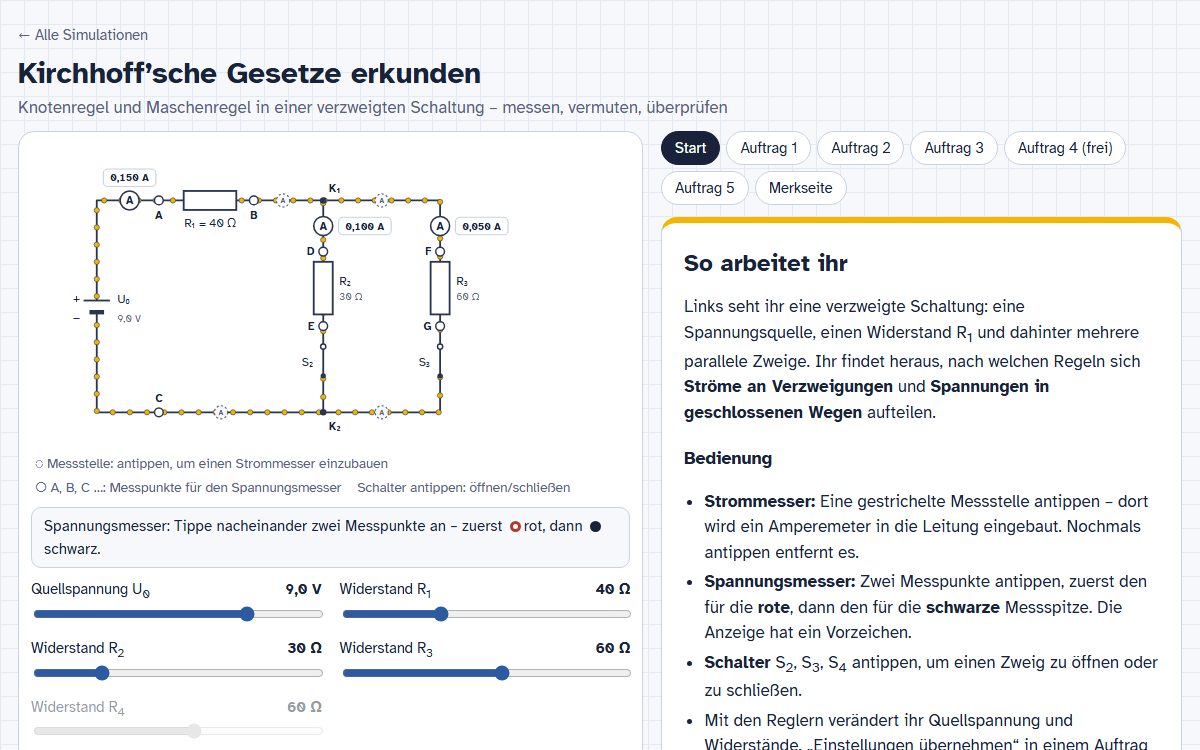
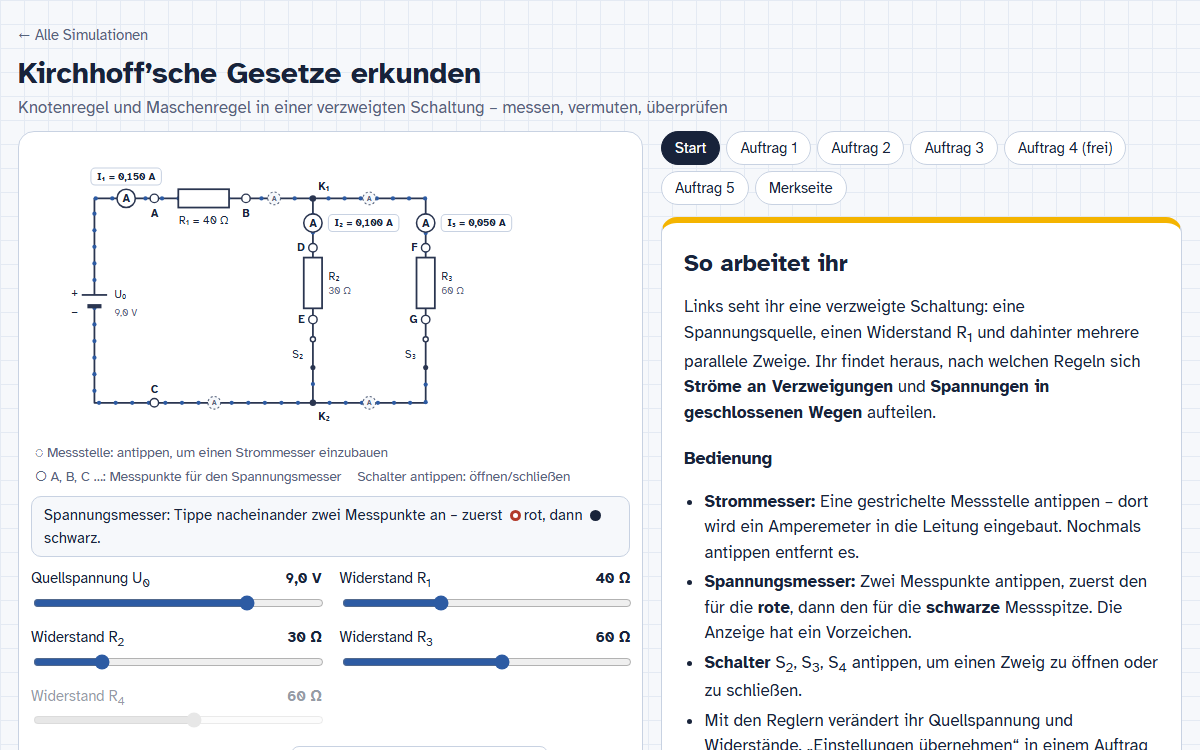
Kirchhoff: Formelsymbole an Messgeräten, Elektronenflussrichtung als Standard, Auftrag 5 ohne Textfelder

Changed region(s): [[0.0, 0.2147, 0.5242, 0.9813], [0.2158, 0.92, 0.2775, 0.9507]]

diff --git a/sims/physik/kirchhoff/index.html b/sims/physik/kirchhoff/index.html
@@ -182,7 +182,7 @@ footer{color:var(--muted);font-size:.85rem;padding:0 0 30px}
   <div class="layout">
     <div class="simcol">
       <div class="simcard">
-        <svg id="circ" viewBox="0 0 820 425" role="group" aria-label="Schaltung mit Spannungsquelle, Widerstand R1 und parallelen Zweigen. Messstellen und Messpunkte sind per Klick oder Tastatur bedienbar.">
+        <svg id="circ" viewBox="0 0 850 425" role="group" aria-label="Schaltung mit Spannungsquelle, Widerstand R1 und parallelen Zweigen. Messstellen und Messpunkte sind per Klick oder Tastatur bedienbar.">
           <g id="gMesh"></g><g id="gWires"></g><g id="gDots"></g><g id="gParts"></g><g id="gSpots"></g><g id="gVm"></g><g id="gPts"></g>
         </svg>
         <div class="legend">
@@ -200,7 +200,7 @@ footer{color:var(--muted);font-size:.85rem;padding:0 0 30px}
         </div>
         <div class="ctlrow">
           <label><input type="checkbox" id="cB4"> <span>dritter Zweig mit R<sub>4</sub></span></label>
-          <label><span>Ladungsfluss</span> <select id="cFlow"><option value="aus">ausblenden</option><option value="tech">technische Stromrichtung (+ → −)</option><option value="el">Elektronen (− → +)</option></select></label>
+          <label><span>Ladungsfluss</span> <select id="cFlow"><option value="el">Elektronenflussrichtung (− → +)</option><option value="tech">technische Stromrichtung (+ → −)</option><option value="aus">ausblenden</option></select></label>
         </div>
         <div class="ctlrow">
           <button class="btn ghost small" type="button" id="bAmmOff">Strommesser entfernen</button>
@@ -250,9 +250,9 @@ const DEF={U:9,R1:40,R2:30,R3:60,R4:60,b4:false,s2:true,s3:true,s4:true};
 let sim=Object.assign({},DEF,store.sim||{});
 let amm=new Set(store.amm||['a1','a3','a5']);
 let vm=Object.assign({red:null,black:null},store.vm||{});
-let flow=store.flow || (reduced?'aus':'tech');
+let flow=store.flow2 || (reduced?'aus':'el');
 let mesh=0;
-const saveSim=()=>{ store.sim=sim; store.amm=[...amm]; store.vm=vm; store.flow=flow; save(); };
+const saveSim=()=>{ store.sim=sim; store.amm=[...amm]; store.vm=vm; store.flow2=flow; save(); };
 
 /* ---------- Formatierung ---------- */
 const $=s=>document.querySelector(s);
@@ -294,6 +294,14 @@ function phi(id,r){
   }
 }
 const visible=o=>!o.b4||sim.b4;
+// Formelsymbole: Strom zwischen den Zweigen bewusst ohne Index (Auftrag 2 fragt danach)
+const ISYM={I1:'I₁',I2:'I₂',I3:'I₃',I4:'I₄',I34:'I'};
+// Spannung zwischen zwei Punkten: Bauteilspannung in Messrichtung als U₀…U₄, sonst U mit Punktnamen
+const USYM={AC:'₀',AB:'₁',DE:'₂',FG:'₃',HJ:'₄'};
+function uSym(a,b,svg){
+  if(USYM[a+b]) return 'U'+USYM[a+b];
+  return svg?`U<tspan dy="4" font-size="10">${a}${b}</tspan><tspan dy="-4"> </tspan>`:`U<sub>${a}${b}</sub>`;
+}
 
 /* ---------- Zeichnen ---------- */
 const pl=(pts,cls='w')=>`<polyline class="${cls}" points="${pts.map(p=>p.join(',')).join(' ')}"/>`;
@@ -341,12 +349,12 @@ function render(){
           <circle class="hit" cx="${o.x}" cy="${o.y}" r="16"/><circle class="ring" cx="${o.x}" cy="${o.y}" r="13"/>
           <circle class="spot0" cx="${o.x}" cy="${o.y}" r="9"/><text class="spot0t" x="${o.x}" y="${o.y}">A</text></g>`;
     } else {
-      const v=fA(r[o.k]);
-      const [tx0,ty0]=o.pos==='t'?[o.x,o.y-31]:o.pos==='b'?[o.x,o.y+31]:[o.x+57,o.y];
+      const v=ISYM[o.k]+' = '+fA(r[o.k]);
+      const [tx0,ty0]=o.pos==='t'?[o.x,o.y-31]:o.pos==='b'?[o.x,o.y+31]:[o.x+72,o.y];
       s+=`<g data-spot="${o.id}" tabindex="0" role="button" aria-label="Strommesser ${o.d}: ${v.replace(',',' Komma ')}. Ausbauen">
           <circle class="hit" cx="${o.x}" cy="${o.y}" r="17"/><circle class="ring" cx="${o.x}" cy="${o.y}" r="17"/>
           <circle class="met" cx="${o.x}" cy="${o.y}" r="13"/><text class="mett" x="${o.x}" y="${o.y}">A</text>
-          <rect class="tag" x="${tx0-36}" y="${ty0-12}" width="72" height="24" rx="6"/><text class="tagt" x="${tx0}" y="${ty0}">${v}</text></g>`;
+          <rect class="tag" x="${tx0-50}" y="${ty0-12}" width="100" height="24" rx="6"/><text class="tagt" x="${tx0}" y="${ty0}">${v}</text></g>`;
     }
   });
   $('#gSpots').innerHTML=s;
@@ -375,8 +383,8 @@ function render(){
     const cx=mx+nx*70, cy=my+ny*70, vx=mx+nx*35, vy=my+ny*35;
     v=`<path class="vline" d="M${a.x},${a.y} Q${cx},${cy} ${b.x},${b.y}" stroke="var(--ink)"/>
        <circle class="met" cx="${vx}" cy="${vy}" r="14"/><text class="mett" x="${vx}" y="${vy}">V</text>
-       <rect class="tag" x="${vx-40}" y="${vy+17}" width="80" height="24" rx="6"/><text class="tagt" x="${vx}" y="${vy+29}">${fV(U,true)}</text>`;
-    ro=`Spannungsmesser: <span class="probe r"></span>rot an <b>${a.id}</b>, <span class="probe k"></span>schwarz an <b>${b.id}</b> → U<sub>${a.id}${b.id}</sub> = <b class="num">${fV(U,true)}</b>`;
+       <rect class="tag" x="${vx-58}" y="${vy+17}" width="116" height="24" rx="6"/><text class="tagt" x="${vx}" y="${vy+29}">${uSym(a.id,b.id,true)}${USYM[a.id+b.id]?' ':''}= ${fV(U,true)}</text>`;
+    ro=`Spannungsmesser: <span class="probe r"></span>rot an <b>${a.id}</b>, <span class="probe k"></span>schwarz an <b>${b.id}</b> → ${USYM[a.id+b.id]?uSym(a.id,b.id)+' = ':''}U<sub>${a.id}${b.id}</sub> = <b class="num">${fV(U,true)}</b>`;
   } else if(vm.red){
     ro=`Spannungsmesser: <span class="probe r"></span>rot an <b>${vm.red}</b>. Tippe jetzt den Punkt für die <span class="probe k"></span>schwarze Messspitze an.`;
   } else {
@@ -541,9 +549,9 @@ const TASKS=[
 { id:5, group:'anw', chip:'Anwenden', title:'Vorhersagen ohne Messgerät', set:S5,
   steps:['Übernehmt die Einstellungen, aber <b>messt noch nicht</b>.',
          'Aus einem Messprotokoll sind bekannt: U<sub>0</sub> = 12 V, I<sub>1</sub> = 0,30 A, I<sub>2</sub> = 0,10 A und U<sub>1</sub> = 6,0 V.',
-         'Bestimmt I<sub>3</sub>, U<sub>2</sub> und U<sub>3</sub> nur mit Knoten- und Maschenregel. Schreibt den Rechenweg auf und tragt die Ergebnisse ein.',
+         'Bestimmt I<sub>3</sub>, U<sub>2</sub> und U<sub>3</sub> nur mit Knoten- und Maschenregel. Rechnet im Heft und tragt die Ergebnisse ein.',
          'Überprüft erst danach mit Strom- und Spannungsmesser.'],
-  extraTa:'Rechenweg',
+  noOwn:true,
   checkLabel:'Vorhersage prüfen',
   table:{cols:[{k:'I3',l:'I<sub>3</sub> in A'},{k:'U2',l:'U<sub>2</sub> in V'},{k:'U3',l:'U<sub>3</sub> in V'}], rows:[{}], exp:()=>solve(S5)},
   hint:'I<sub>3</sub> folgt aus der Knotenregel an K<sub>1</sub>, U<sub>2</sub> aus der Maschenregel für Masche I, U<sub>3</sub> aus Masche II.',
@@ -621,9 +629,9 @@ function taskHTML(t){
     <div class="actions noprint"><button class="btn" type="button" data-act="check-m" data-t="${t.id}">${t.checkLabel||'Messwerte prüfen'}</button></div>
     <div class="fb" id="${p}-mfb" role="status"></div>
     <h3>Auswertung</h3>
-    <label class="ta" for="${p}-own">Euer Ergebnis in eigenen Worten</label>
+    ${t.noOwn?'':`<label class="ta" for="${p}-own">Euer Ergebnis in eigenen Worten</label>
     <textarea id="${p}-own"></textarea>
-    <p style="margin:14px 0 0"><b>Überprüft euer Ergebnis:</b></p>
+    <p style="margin:14px 0 0"><b>Überprüft euer Ergebnis:</b></p>`}
     ${clozeHTML(p+'-k',t.cloze)}
     <div class="actions noprint"><button class="btn" type="button" data-act="check-k" data-t="${t.id}">Ergebnis prüfen</button></div>
     <div class="fb" id="${p}-kfb" role="status"></div>
